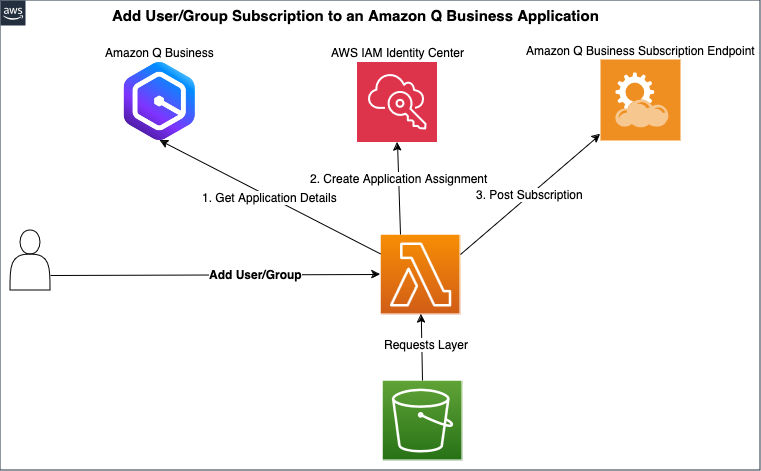
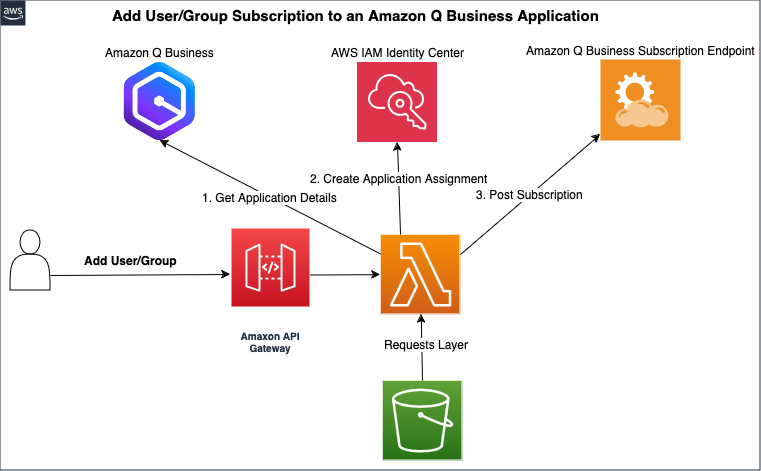
APIGateway updates

Changed region(s): [[0.0907, 0.4756, 0.4836, 0.6539], [0.3022, 0.6837, 0.3929, 0.7728]]

diff --git a/add-delete-subscription-lambda.py b/add-delete-subscription-lambda.py
@@ -1,43 +1,95 @@
 import boto3
-import requests
-from requests_aws4auth import AWS4Auth
 import json
 import os
+import requests
+from requests_aws4auth import AWS4Auth
 import logging
+
+logger = logging.getLogger()
+logger.setLevel(logging.INFO)
 
 session = boto3.Session()
 credentials = session.get_credentials()
 qclient = session.client('qbusiness')
 ssoclient = session.client('sso-admin')
 
-# Configure logger
-logger = logging.getLogger()
-logger.setLevel(logging.INFO)
-
-
 def lambda_handler(event, context):
-    """
-    AWS Lambda handler for managing Q Business subscriptions.
-    
-    Supports two operations:
-    - ADD: Creates a new subscription and IAM Identity Center application assignment
-    - DELETE: Removes an existing subscription and application assignment
+   """
+    Main Lambda handler function that processes HTTP requests for subscription management.
+    Handles both POST (add subscription) and DELETE (remove subscription) operations.
     
     Args:
-        event (dict): Lambda event containing:
-            - region (str): AWS region
-            - action (str): ADD, DELETE
-            - applicationId (str): Q Business application ID
-            - assignmentType (str): GROUP or USER (required for ADD/DELETE)
-            - assignmentId (str): Group or user ID (required for ADD/DELETE)
-            - subscriptionType (str): Q_BUSINESS or Q_LITE (required for ADD)
-        context (LambdaContext): Lambda context object
-        
+        event (dict): API Gateway event containing HTTP method, body, and query parameters
+        context (object): Lambda context object
+    
     Returns:
-        dict: Response containing statusCode and body
-            Success: {'statusCode': 200, 'body': result}
-            Error: {'statusCode': 400/500, 'body': {'error': error_message}}
+        dict: API Gateway response with status code, headers, and body
     """
+    try:
+        # Extract HTTP method
+        http_method = event['httpMethod']
+        
+        # Parse body for POST requests
+        body = {}
+        if http_method == 'POST' and 'body' in event:
+            body = json.loads(event['body'])
+            
+        # Extract query parameters for DELETE requests
+        query_params = event.get('queryStringParameters', {}) or {}
+        
+        if http_method == 'POST':
+            # Map to ADD action
+            payload = {
+                'action': 'ADD',
+                'region': body.get('region'),
+                'applicationId': body.get('applicationId'),
+                'assignmentType': body.get('assignmentType'),
+                'assignmentId': body.get('assignmentId'),
+                'subscriptionType': body.get('subscriptionType')
+            }
+        elif http_method == 'DELETE':
+            # Map to DELETE action
+            payload = {
+                'action': 'DELETE',
+                'region': query_params.get('region'),
+                'applicationId': query_params.get('applicationId'),
+                'assignmentType': query_params.get('assignmentType'),
+                'assignmentId': query_params.get('assignmentId')
+            }
+        else:
+            return {
+                'statusCode': 400,
+                'body': json.dumps({
+                    'error': 'Unsupported HTTP method'
+                })
+            }
+        
+        result = process_request(payload, context)
+        
+        # Return API Gateway response
+        return {
+            'statusCode': result['statusCode'],
+            'headers': {
+                'Content-Type': 'application/json',
+                'Access-Control-Allow-Origin': '*'
+            },
+            'body': result['body']
+        }
+        
+    except Exception as e:
+        return {
+            'statusCode': 500,
+            'headers': {
+                'Content-Type': 'application/json',
+                'Access-Control-Allow-Origin': '*'
+            },
+            'body': json.dumps({
+                'error': str(e)
+            })
+        }
+
+
+def process_request(event, context):
     try:
         # Extract parameters from the event
         region = event.get('region')
@@ -46,10 +98,12 @@ def lambda_handler(event, context):
         assignmentType = event.get('assignmentType')
         assignmentId = event.get('assignmentId')
         subscriptionType = event.get('subscriptionType')
+        subscriptionId = event.get('subscriptionId')
+        logger.info(f"Event parameters - region: {region}, action: {action}, applicationId: {applicationId}, assignmentType: {assignmentType}, assignmentId: {assignmentId}, subscriptionType: {subscriptionType}, subscriptionId: {subscriptionId}")   
 
         # Validate action
         if action not in ['ADD', 'DELETE']:
-            logger.error(f"Invalid action: {action}")
+            logger.error('Invalid action. Must be ADD, or DELETE')
             return {
                 'statusCode': 400,
                 'body': json.dumps({
@@ -60,7 +114,7 @@ def lambda_handler(event, context):
         if action == 'ADD':
             # Validate required parameters for ADD
             if not all([applicationId, assignmentType, assignmentId, subscriptionType]):
-                logger.error(f"Missing required parameters for ADD action")
+                logger.error('assignmentType, assignmentId, and subscriptionType are required for ADD action')
                 return {
                     'statusCode': 400,
                     'body': json.dumps({
@@ -70,7 +124,7 @@ def lambda_handler(event, context):
 
             # Validate subscription type
             if subscriptionType not in ['Q_BUSINESS', 'Q_LITE']:
-                logger.error(f"Invalid subscription type: {subscriptionType}")
+                logger.error('Invalid subscription type. Must be Q_BUSINESS or Q_LITE')
                 return {
                     'statusCode': 400,
                     'body': json.dumps({
@@ -80,7 +134,7 @@ def lambda_handler(event, context):
 
             # Validate assignment type
             if assignmentType not in ['GROUP', 'USER']:
-                logger.error(f"Invalid assignment type: {assignmentType}")
+                logger.error('Invalid assignment type. Must be GROUP or USER')
                 return {
                     'statusCode': 400,
                     'body': json.dumps({
@@ -100,15 +154,14 @@ def lambda_handler(event, context):
         
         else:  # DELETE
             if not all([applicationId, assignmentType, assignmentId]):
-                logger.error(f"Missing required parameters for DELETE action")
+                logger.error('assignmentType and assignmentId are required for DELETE action')
                 return {
                     'statusCode': 400,
                     'body': json.dumps({
-                        'error': 'applicationId, assignmentType and assignmentId are required for DELETE action'
+                        'error': 'assignmentType and assignmentId are required for DELETE action'
                     })
                 }
                 
-            
             delete_subscription(
                 region,
                 applicationId,
@@ -116,8 +169,9 @@ def lambda_handler(event, context):
                 assignmentId
             )
             
-            result = "Application assignment deleted successfully"
-            logger.info(f"Application assignment deleted successfully {applicationId} {assignmentId}")
+            result = "{status:'Application assignment deleted successfully'}"
+            logger.info(result)
+        
         return {
             'statusCode': 200,
             'body': json.dumps(result)
@@ -132,27 +186,12 @@ def lambda_handler(event, context):
         }
 
 def delete_subscription(region, applicationId, assignmentType, assignmentId):
-    """
-    Delete subscription details for a given application and subscription.
-
-    Args:
-        region (str): The AWS region where the application is located
-        applicationId (str): The unique identifier of the Q Business application
-        assignmentType (str): GROUP or USER 
-        assignmentId (str): Group or user ID 
-    
-    Returns:
-        dict: Response containing status message and details
-
-    """
-
-    logger.info(f"Deleting subscription for application {applicationId}")
     #First find the Subscription Id for the given Application and User/Group
     endpoint = f'https://qbusiness.{region}.api.aws/applications/{applicationId}/subscriptions'
     subscriptions_data = make_qbusiness_request(region, 'GET', endpoint)
 
     if 'subscriptions' not in subscriptions_data:
-        logger.error(f"No subscriptions found for the given application")
+        logger.error("No subscriptions found for the given application")
         raise Exception(f"No subscriptions found for the given application")
         
     subscriptionId = ""
@@ -163,38 +202,21 @@ def delete_subscription(region, applicationId, assignmentType, assignmentId):
                 subscriptionId = subscription['subscriptionId']
                 break
     if subscriptionId == "":
-        logger.error(f"Subscription not found for the given application and principal")
+        logger.error("Subscription not found for the given application and principal")
         raise Exception(f"Subscription not found for the given application and principal")
-            if principal[assignmentType.lower()] == assignmentId:
-    logger.info(f"Subscription found for the given application and principal  {applicationId} {assignmentId}")  
-
+    
     #Now call DELETE on the endpoint to delete
-    make_qbusiness_request(region, 'DELETE', f"{endpoint}/{subscriptionId}")
+    endpoint += f"/{subscriptionId}"
+    make_qbusiness_request(region, 'DELETE', endpoint)
+    logger.info(f"Subscription deleted successfully: {subscriptionId}")
     #Remove IDC App assignment
-    logger.info(f"Deleting application assignment for application {applicationId}")
     ssoclient.delete_application_assignment(
                 ApplicationArn=qclient.get_application(applicationId=applicationId)["identityCenterApplicationArn"],
                 PrincipalId=assignmentId,
                 PrincipalType=assignmentType)
-    logger.info(f"Application assignment deleted successfully")
-    return {
-        'subscriptionId': subscriptionId,
-        'message': 'Subscription and application assignment deleted successfully'
-    }
-    
+    logger.info(f"Application assignment deleted successfully: {assignmentId}")
 
 def add_subscription(region, applicationId, assignmentType, assignmentId, subscriptionType):
-    """
-    Adds the subscription type for a given application and group/user.
-
-    Args:
-        region (str): The AWS region where the application is located
-        applicationId (str): The unique identifier of the Q Business application
-        assignmentType (str): GROUP or USER
-        assignmentId (str): Group or user ID
-        subscriptionType (str): Q_BUSINESS or Q_LITE
-    """
-    logger.info(f"Adding subscription for application {applicationId}") 
     # Create IAM Identity Center application assignment
     app = qclient.get_application(applicationId=applicationId)
     ssoclient.create_application_assignment(
@@ -202,7 +224,7 @@ def add_subscription(region, applicationId, assignmentType, assignmentId, subscr
         PrincipalId=assignmentId,
         PrincipalType=assignmentType
     )
-    logger.info(f"Application assignment created successfully {applicationId}")
+    logger.info(f"Application assignment created successfully: {assignmentId}")
     
     endpoint = f'https://qbusiness.{region}.api.aws/applications/{applicationId}/subscriptions'
     
@@ -212,23 +234,14 @@ def add_subscription(region, applicationId, assignmentType, assignmentId, subscr
     }
 
     response = make_qbusiness_request(region, 'POST', endpoint, payload)
-    logger.info(f"Subscription created successfully {subscriptionId}")
-    return response["subscriptionId"]
+    logger.info(f"Subscription created successfully: {response}")
+    return f"subscriptionId:{response['subscriptionId']}"
 
 def make_qbusiness_request(region, method, endpoint, payload=None):
-    """
-    Makes an authenticated request to Q Business API
-    
-    Args:
-        region (str): AWS region
-        method (str): HTTP method (GET, POST, etc)
-        endpoint (str): Full API endpoint URL
-        payload (dict, optional): Request payload for POST/PUT requests
-    """
     headers = {
         'Content-Type': 'application/json'
     }
-    logger.info(f"Making Q Business request to {endpoint}")
+
     try:
         aws_auth = AWS4Auth(
             credentials.access_key,
@@ -243,17 +256,13 @@ def make_qbusiness_request(region, method, endpoint, payload=None):
             url=endpoint,
             auth=aws_auth,
             headers=headers,
-            data=json.dumps(payload) if payload else None,
+            json=payload if payload else None,
             timeout=120
         )
 
         response.raise_for_status()
-        logger.info(f"Q Business request successful")   
+        logger.info(f"Request successful: {response.status_code}")
         return response.json()
 
     except requests.exceptions.RequestException as e:
         raise Exception(f"Request failed: {str(e)}")
-
-
-
-

diff --git a/README.md b/README.md
@@ -24,6 +24,29 @@ zip -r9 python_requests_layer.zip library
 
 Deploy the CloudFormation template `user-group-subscription-template.yaml` with the S3 bucket having the request zip file as input.
 
+The output from the template will include the API Gateway endpoint. Use the HTTPS endpoint to make POST calls to Add a subscription and DELETE to Delete a subscription.
+E.g.
+
+```
+curl -X POST \
+  'API_END_POINT \
+  -H "Content-Type: application/json" \
+  --aws-sigv4 "aws:amz:us-east-1:execute-api" \
+  --user "${AWS_ACCESS_KEY_ID}:${AWS_SECRET_ACCESS_KEY}" \
+  -H "X-Amz-Security-Token: ${AWS_SESSION_TOKEN}" \
+  -d '{"region":"{region}","applicationId":"{Q Business Application Id}","assignmentType":"GROUP|USER","assignmentId":"Group ID|User Id","subscriptionType":"Q_BUSINESS|Q_LITE"}'
+```
+
+```
+
+curl -X DELETE \
+  'API_END_POINT?region={region}&applicationId={Q Business Application Id}&assignmentType=GROUP|USER&assignmentId=Group ID|User Id' \
+  --aws-sigv4 "aws:amz:us-east-1:execute-api" \
+  --user "${AWS_ACCESS_KEY_ID}:${AWS_SECRET_ACCESS_KEY}" \
+  -H "X-Amz-Security-Token: ${AWS_SESSION_TOKEN}"
+
+```
+
 ## Cleanup
 
 1. Delete the CloudFormation template.
